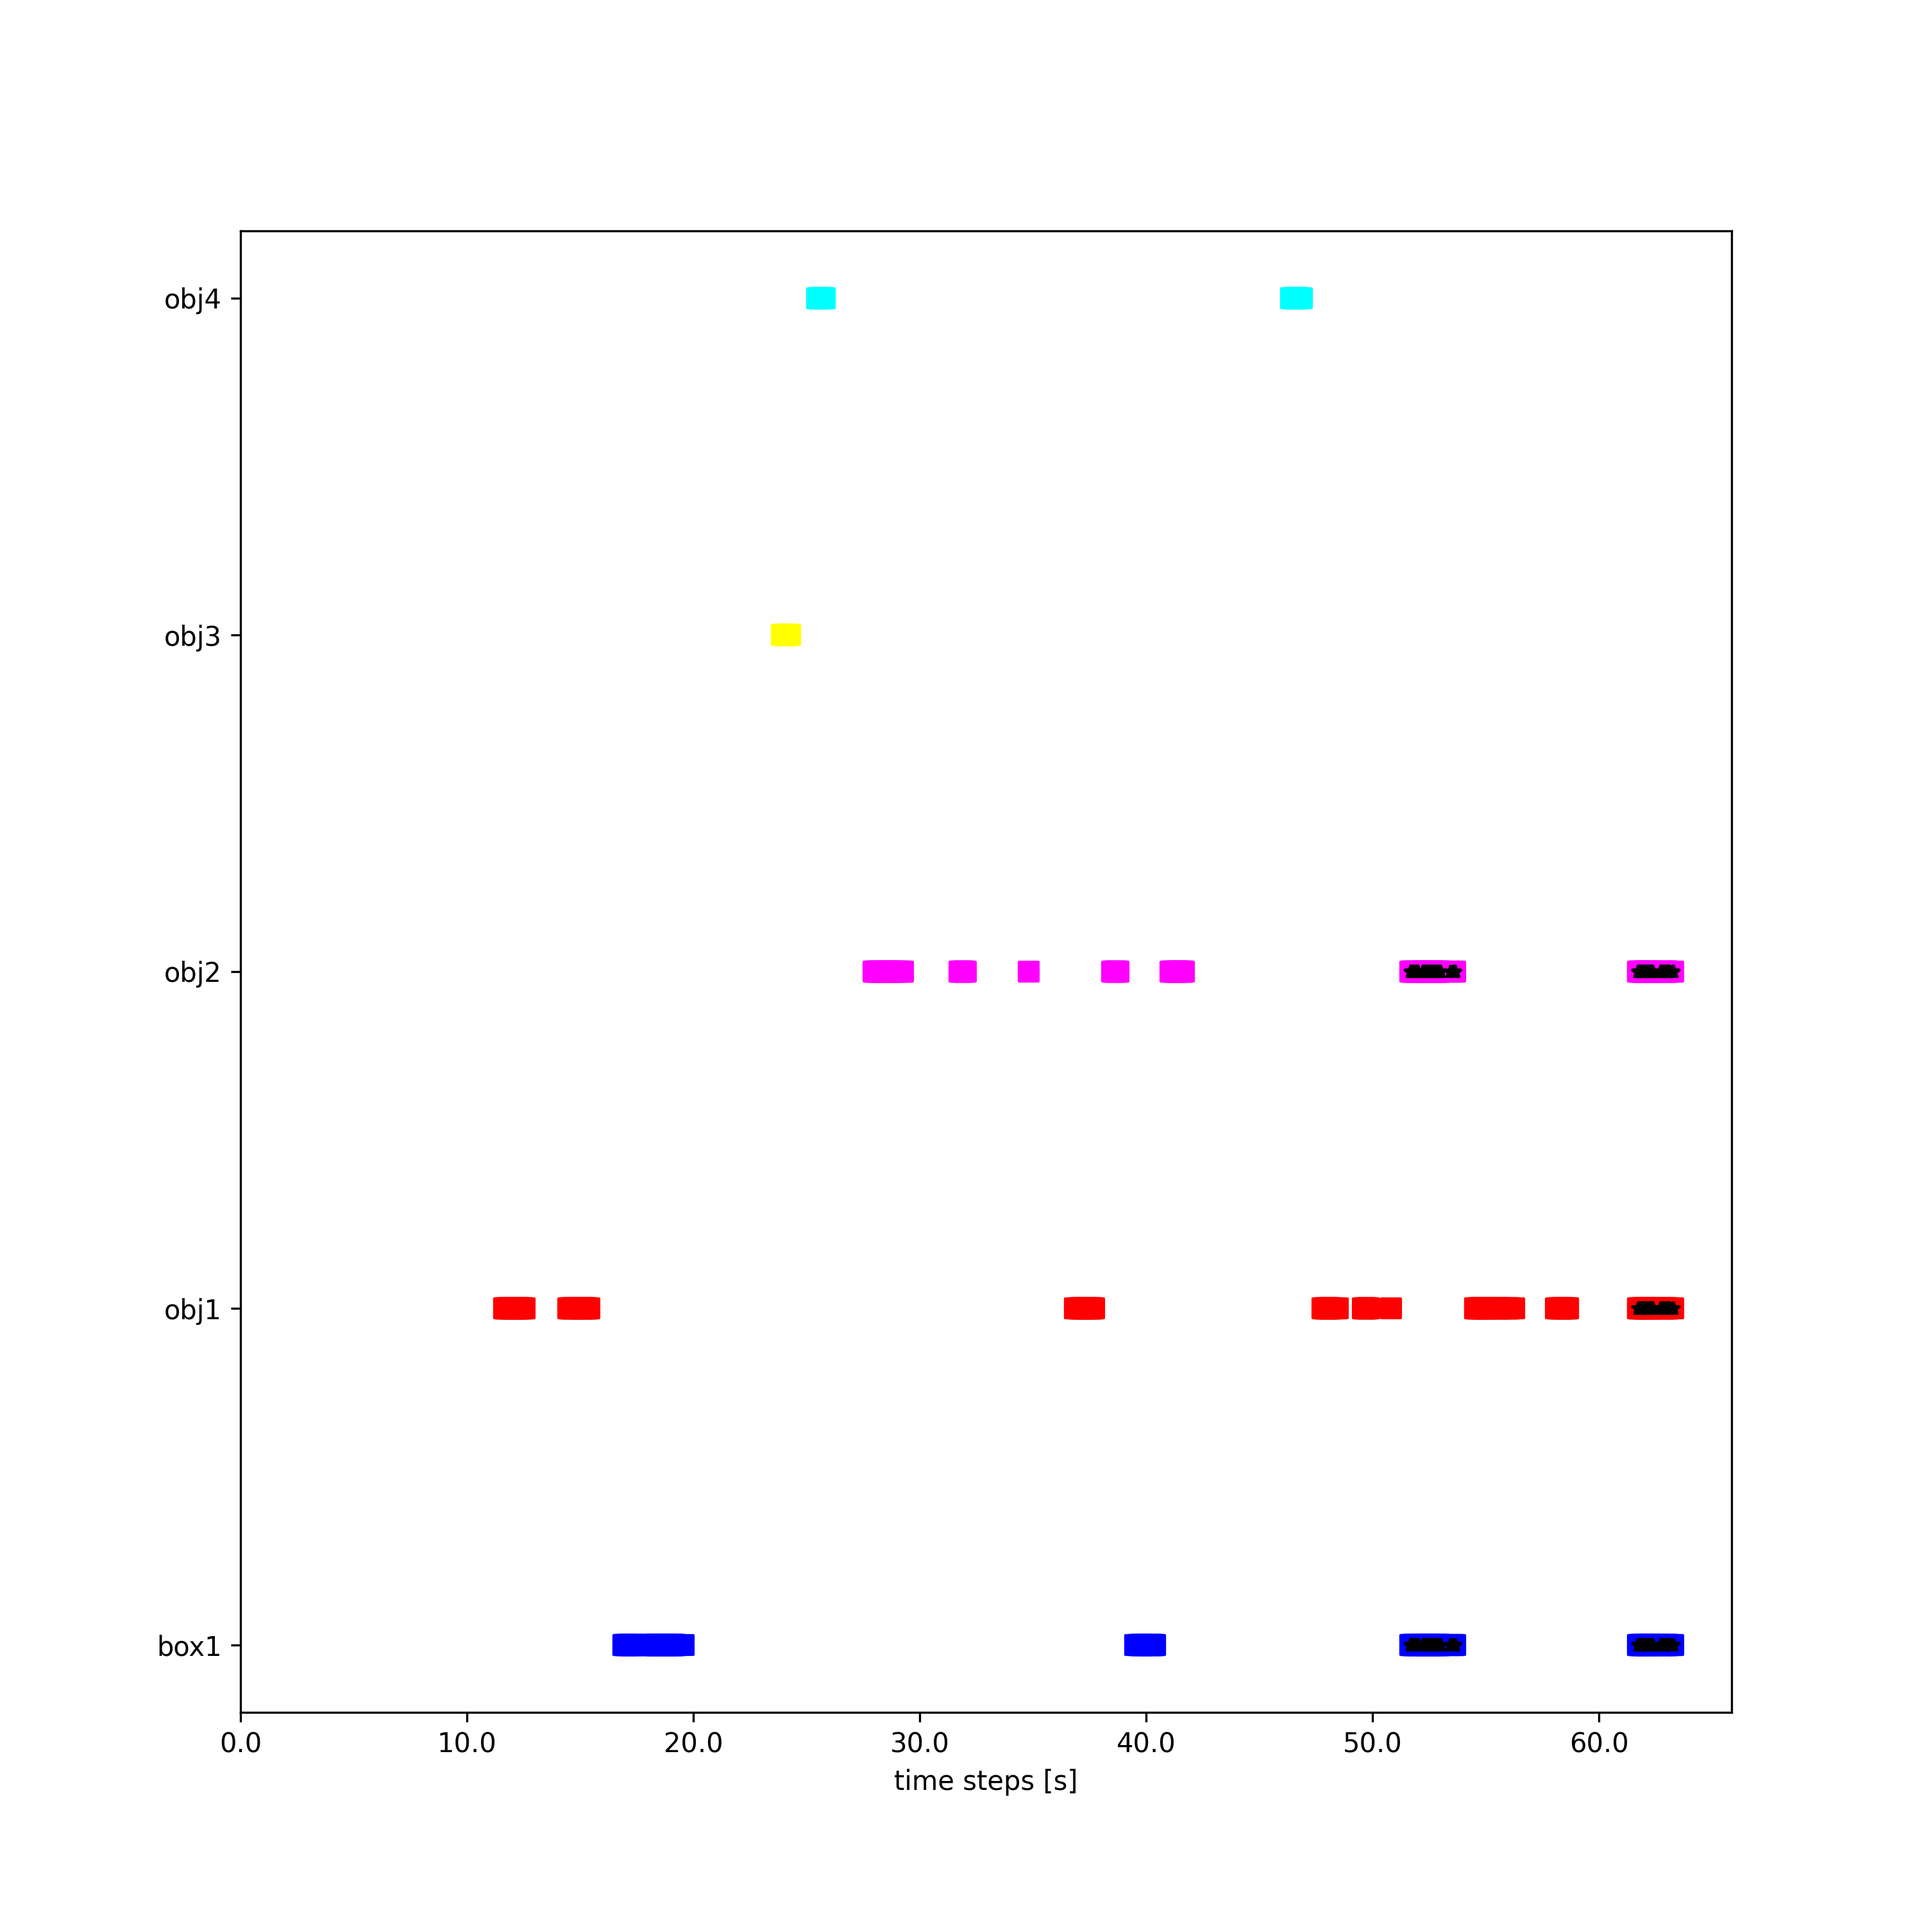
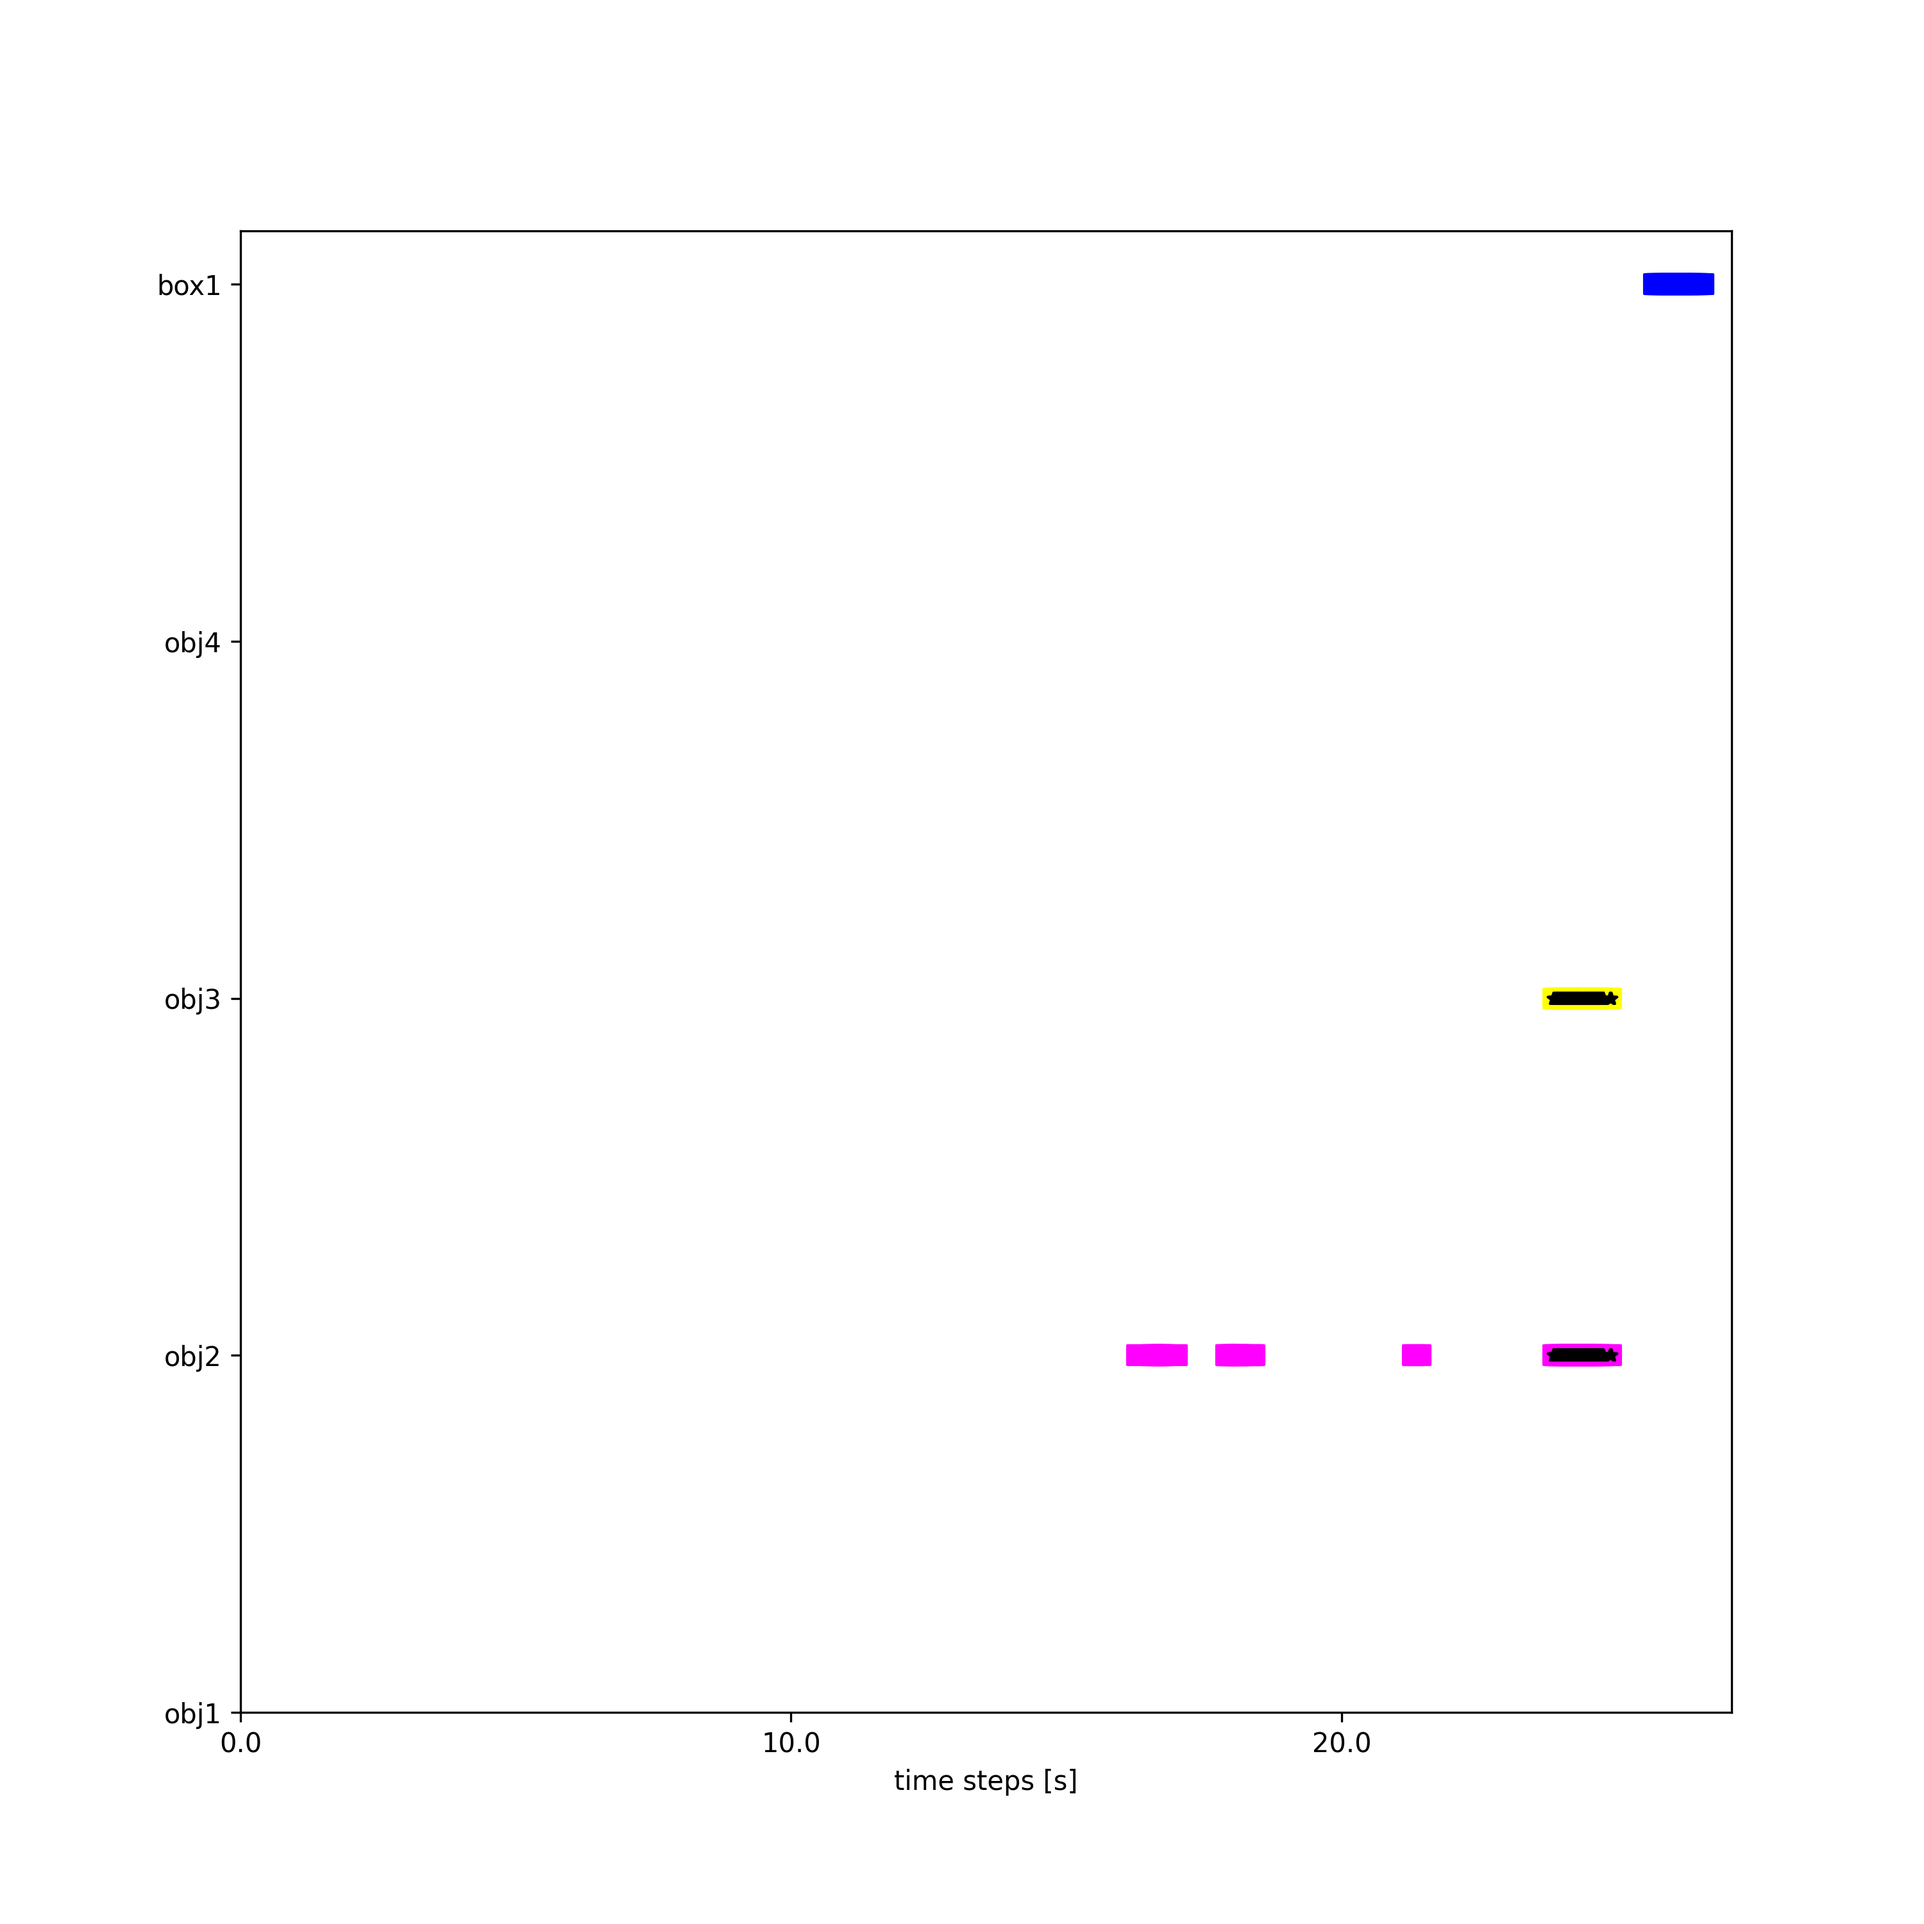
refinement of clustering

diff --git a/SRC/velocityProfile.py b/SRC/velocityProfile.py
@@ -140,23 +140,23 @@ def velocity_profile(data, acceleration=False):
     return fig, ax
 
 
-frame_folder= "./Data/Pilot3/Frames/"
+frame_folder= "./Data/Pilot4/Frames/"
 frame_files = os.listdir(frame_folder)
 
 for file in frame_files:
     if file.endswith(".json"):
         participant_id, run, puzzle, attempt = use_regex(file)
-        # if participant_id == 34 and run ==2 and puzzle == 1 and attempt == 0:
-        with open(os.path.join(frame_folder,file)) as json_file:
-            if not os.path.exists("./Plots_Text/Velocity_Profile/"+str(participant_id)+"_"+str(run)+"_"+str(puzzle)+"_"+str(attempt)+".png"):
-                # print("Saved: ", str(participant_id)+"_"+str(run)+"_"+str(puzzle)+"_"+str(attempt)+".png")
-                data = json.load(json_file)
-                fig, ax = velocity_profile(data)
-                figa, axa = velocity_profile(data, acceleration=True)
-            #set the title of the plot
-                fig.suptitle("Participant: "+str(participant_id)+" Run: "+str(run)+" Puzzle: "+str(puzzle)+" Attempt: "+str(attempt))
-                figa.suptitle("Participant: "+str(participant_id)+" Run: "+str(run)+" Puzzle: "+str(puzzle)+" Attempt: "+str(attempt))
-                fig.savefig("./Plots_Text/Velocity_Profile/"+str(participant_id)+"_"+str(run)+"_"+str(puzzle)+"_"+str(attempt)+".png", dpi=300)
-                figa.savefig("./Plots_Text/Velocity_Profile/Acceleration/"+str(participant_id)+"_"+str(run)+"_"+str(puzzle)+"_"+str(attempt)+".png", dpi=300)
-                plt.close(fig)
-                plt.close(figa)
+        if participant_id == 59 and run ==1 and puzzle == 26 and attempt == 0:
+            with open(os.path.join(frame_folder,file)) as json_file:
+                if not os.path.exists("./Plots_Text/Velocity_Profile/"+str(participant_id)+"_"+str(run)+"_"+str(puzzle)+"_"+str(attempt)+".png"):
+                    # print("Saved: ", str(participant_id)+"_"+str(run)+"_"+str(puzzle)+"_"+str(attempt)+".png")
+                    data = json.load(json_file)
+                    fig, ax = velocity_profile(data)
+                    figa, axa = velocity_profile(data, acceleration=True)
+                #set the title of the plot
+                    fig.suptitle("Participant: "+str(participant_id)+" Run: "+str(run)+" Puzzle: "+str(puzzle)+" Attempt: "+str(attempt))
+                    figa.suptitle("Participant: "+str(participant_id)+" Run: "+str(run)+" Puzzle: "+str(puzzle)+" Attempt: "+str(attempt))
+                    fig.savefig("./Plots_Text/Velocity_Profile/"+str(participant_id)+"_"+str(run)+"_"+str(puzzle)+"_"+str(attempt)+".png", dpi=300)
+                    figa.savefig("./Plots_Text/Velocity_Profile/Acceleration/"+str(participant_id)+"_"+str(run)+"_"+str(puzzle)+"_"+str(attempt)+".png", dpi=300)
+                    plt.close(fig)
+                    plt.close(figa)

diff --git a/SRC/clusterPositionalVector.py b/SRC/clusterPositionalVector.py
@@ -231,7 +231,7 @@ frame_folders = ["./Data/Pilot3/Frames/", "./Data/Pilot4/Frames/"]
 
 sequence_type="POSVEC"
 # pcns=[[1,3],[2,3], [3,3], [4,2], [5,3], [6,3], [21,3], [22,3], [23,2], [24,4], [25,3], [26,4]]
-pcns=[[1,5]]
+pcns=[[25,5]]
 
 use_saved_linkage = True
 
@@ -272,7 +272,7 @@ for pcn in pcns:
             json.dump(cluster_ids, fp)
     
         for cluster_id, data_ids in cluster_ids.items():
-            first_image, frames = gif(desired_puzzle=puzzleNumber,ids=data_ids, frameBased=True)
+            first_image, frames = gif(desired_puzzle=puzzleNumber,ids=data_ids, frameBased=True, includeEgo=False)
             first_image.save(f'{plotPath}/Cluster{cluster_id}_puzzle{puzzleNumber}_{sequence_type}.gif', save_all=True, append_images=frames, duration=500, loop=0)
             Heatmap(cluster_id, data_ids, puzzleNumber, ignore_ego=True)
         
@@ -340,15 +340,15 @@ for pcn in pcns:
 
 print("--- %s seconds ---" % (time.time() - start_time)) 
 
-repo_path = './'
+# repo_path = './'
 
-os.chdir(repo_path)
+# os.chdir(repo_path)
 
-subprocess.run(['git', 'add', '.'])
+# subprocess.run(['git', 'add', '.'])
 
-subprocess.run(['git', 'commit', '-m', "path plots based on frame files added and respective clustering visualization "])
+# subprocess.run(['git', 'commit', '-m', "path plots based on frame files added and respective clustering visualization "])
 
-subprocess.run(['git', 'push'])
+# subprocess.run(['git', 'push'])
 
 # subprocess.run(['sudo', 'shutdown', '-h', '+5'])
 

diff --git a/SRC/attachment.py b/SRC/attachment.py
@@ -165,7 +165,7 @@ for frame_folder in frame_folders:
             for file in frame_files:
                 if file.endswith(".json"):
                     participant_id, run, puzzle, attempt = use_regex(file)
-                    if puzzle == 24 and run == 2 and attempt == 0 and participant_id == 33:
+                    if puzzle == 6 and run == 1 and attempt == 0 and participant_id == 41:
                         # print(file)
                         with open(frame_folder+file) as f:
                             data = json.load(f)

diff --git a/SRC/gifGenerator.py b/SRC/gifGenerator.py
@@ -2,11 +2,13 @@ from PIL import Image
 import os
 import re
 
-def gif(desired_puzzle, ids=[],frameBased=False):
+def gif(desired_puzzle, ids=[],frameBased=False, includeEgo=False):
 
     pathimage_folder = "./Plots_Text/Path_Plots"
     if frameBased:
         pathimage_folder = "./Plots_Text/Path_Plots/frameBased"
+        if includeEgo:
+            pathimage_folder = "./Plots_Text/Path_Plots/frameBased/includeEgo"
     png_files = [f for f in os.listdir(pathimage_folder) if f.endswith('.png')]
 
     def use_regex(input_text):
